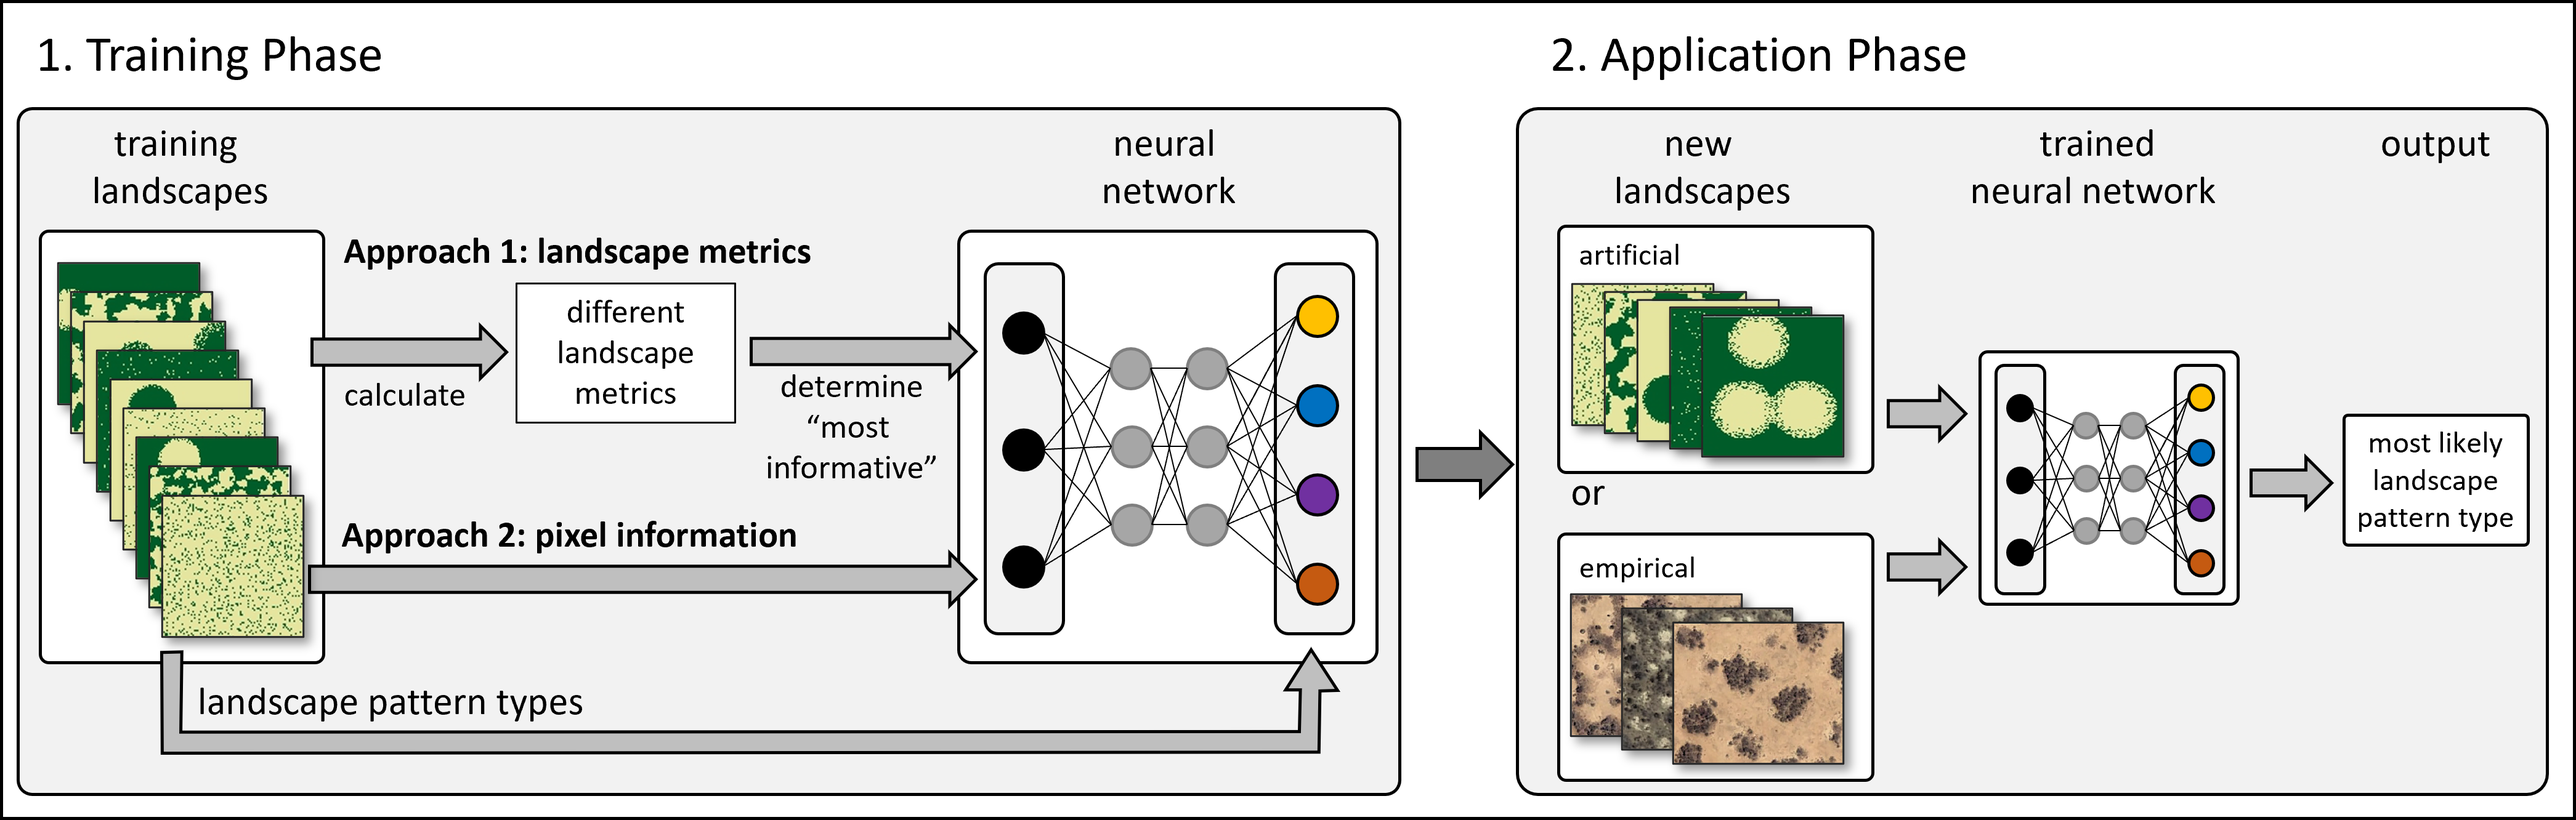
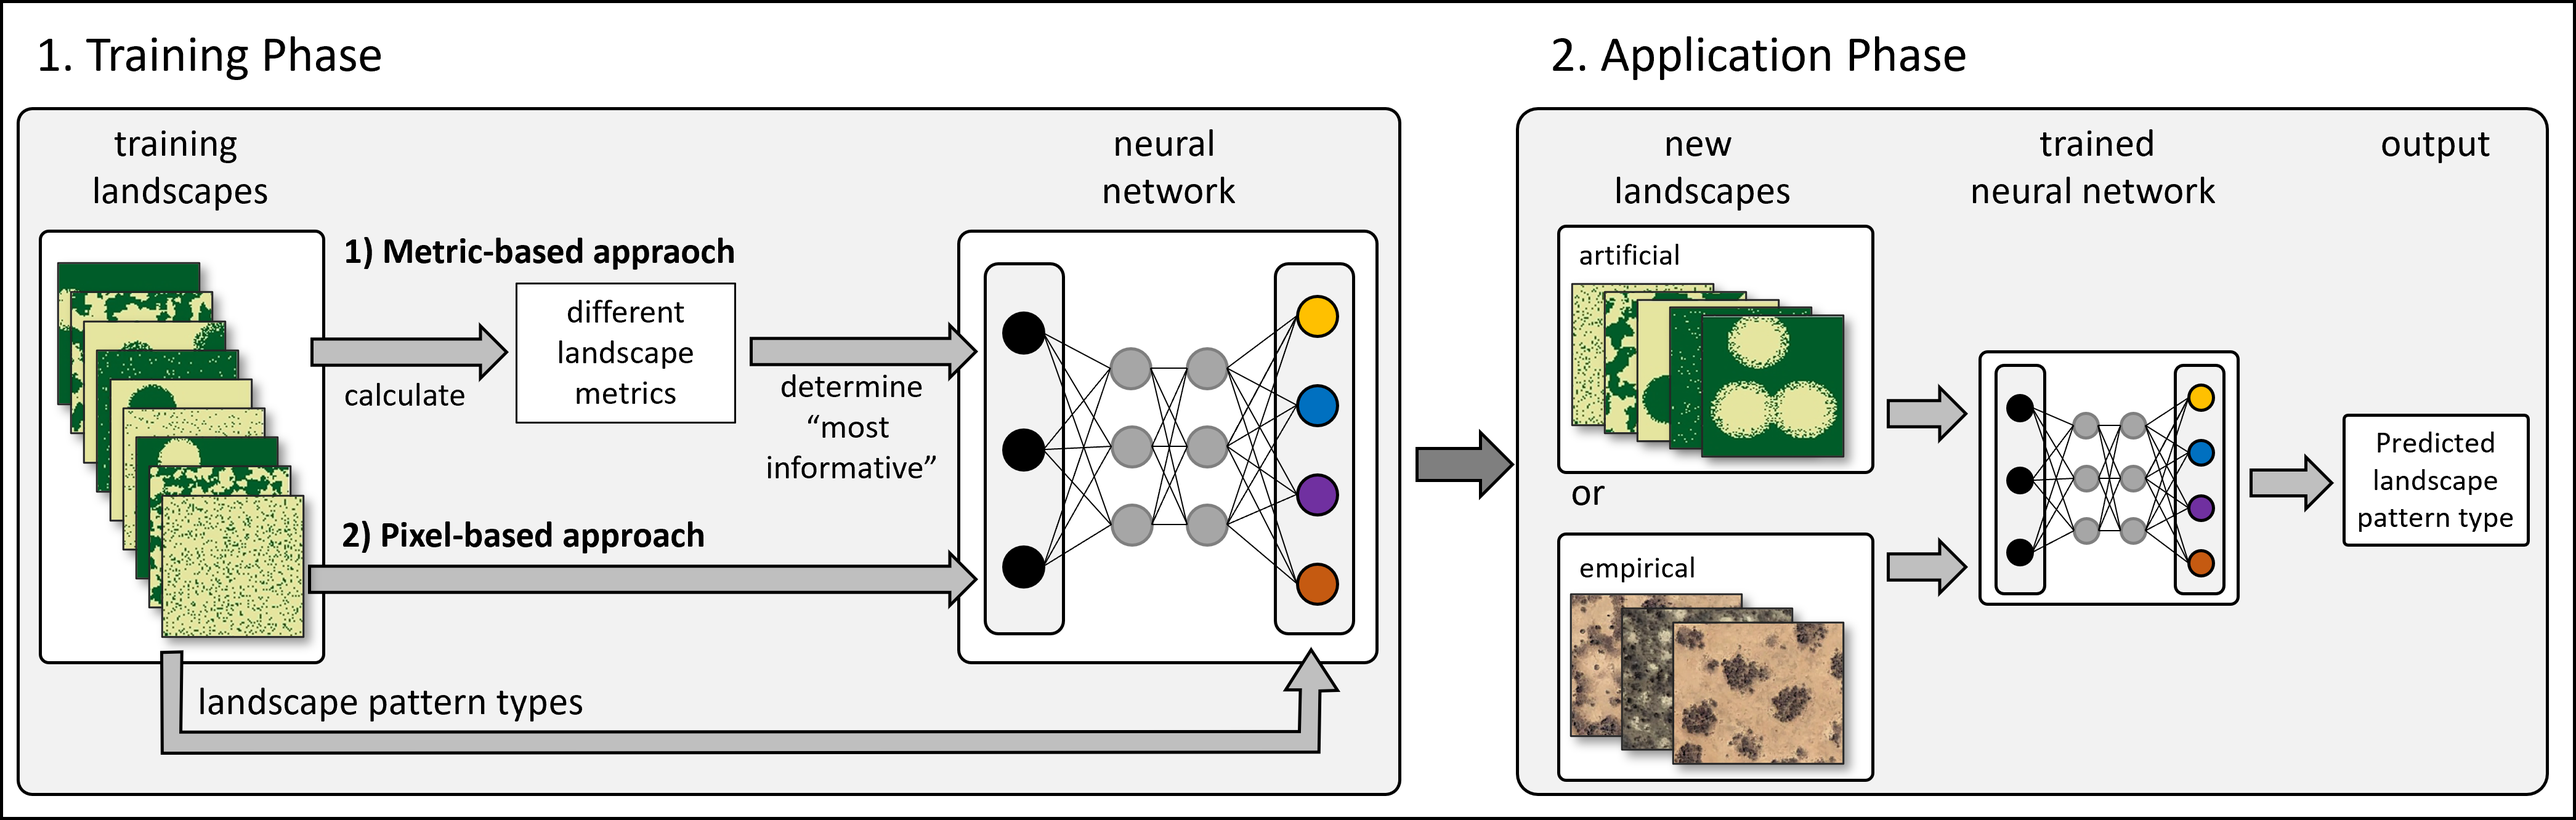
Update readme overview text and figure

Changed region(s): [[0.1243, 0.277, 0.3109, 0.3386], [0.1243, 0.6464, 0.3109, 0.6772], [0.9015, 0.5233, 0.9637, 0.5541]]

diff --git a/README.md b/README.md
@@ -9,20 +9,44 @@
 [![GPL-3.0-or-later](https://img.shields.io/badge/License-GPLv3-blue.svg)](https://www.gnu.org/licenses/gpl-3.0.html)
 <!-- badges: end -->
 
-`patternscaper` classifies spatial vegetation patterns into user-defined
-classes using neural networks trained on reference landscapes with known
-patterns. It supports two workflows: a multilayer neural network trained
-on landscape metrics and a convolutional neural network trained directly
-on raster cells. Trained models can then be used to classify new
-landscapes.
+## Overview
 
-In the companion paper, we demonstrate both workflows for ecotone and
-self-organized vegetation patterns, and evaluate the model performance
-across different parameter settings. We also demonstrate that a model
-trained on artificial landscapes can be applied to classify real
-landscapes from remote sensing imagery.
+`patternscaper` classifies spatial vegetation patterns in categorical
+raster landscapes into ecologically meaningful, user-defined pattern
+types. It provides a reproducible alternative to visual classification
+or the manual interpretation of multiple landscape metrics. It can be
+used to compare landscape structure across space or time, monitor
+ecosystem change, evaluate spatial simulation outputs, and analyze
+classified remote-sensing data. Users define the pattern classes
+according to their research question and provide representative,
+labelled training landscapes. These landscapes can be generated with
+patternscaper or imported from ecological simulation outputs or other
+categorical raster data. Artificial landscapes are particularly useful
+when labelled empirical training data are scarce because their classes
+are known by construction and their variation can be controlled.
+
+The package provides two complementary workflows. The metric-based
+workflow calculates established landscape metrics using the
+[`landscapemetrics` R
+package](https://r-spatialecology.github.io/landscapemetrics/index.html),
+selects informative metrics, and trains a neural network classifier on
+them. The pixel-based workflow trains a convolutional neural network
+directly on categorical raster cells without prior feature selection.
+Both workflows support landscape preparation, model training and
+evaluation, classification of new landscapes, and visualization of the
+results.
+
+<div class="figure">
 
 <img src="man/figures/workflow.png" alt="Diagram showing the patternscaper workflow in two phases: (1) Training phase where training landscapes are fed into a neural network using either landscape metrics or pixel information, and (2) Application phase where new artificial or real landscapes are classified by the trained neural network to predict the most likely landscape pattern class." width="100%" />
+<p class="caption">
+
+Overview of the patternscaper workflow. Classifiers are trained using
+either the metric-based or pixel-based approach and applied to new
+artificial or empirical landscapes.
+</p>
+
+</div>
 
 ## Installation
 
